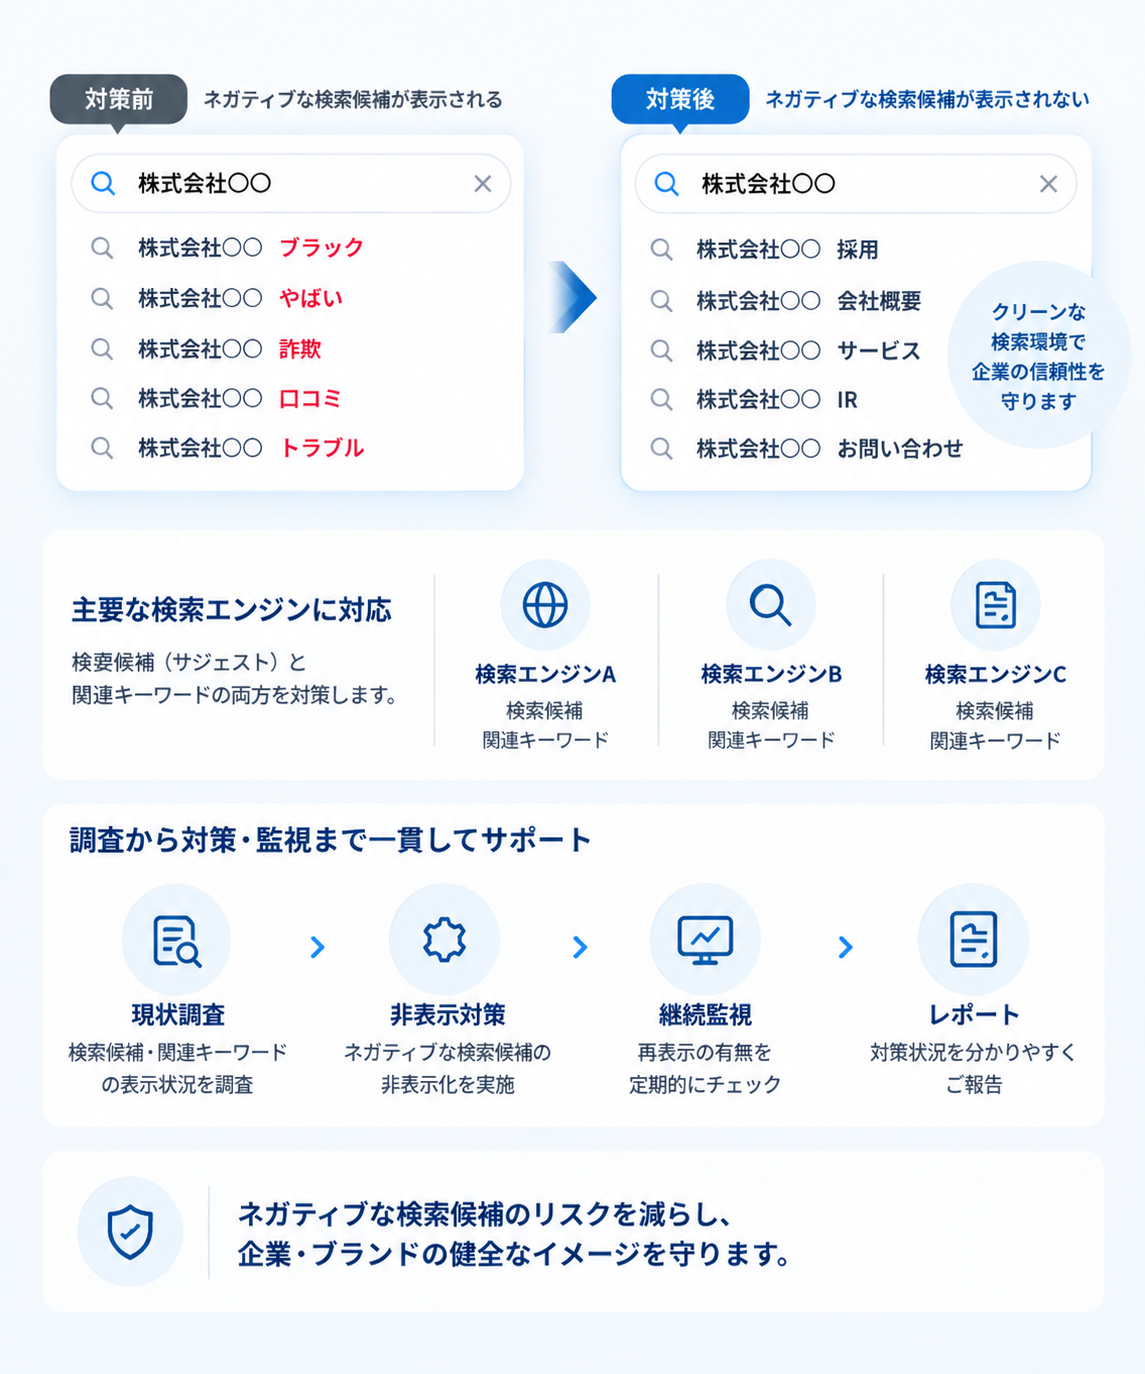
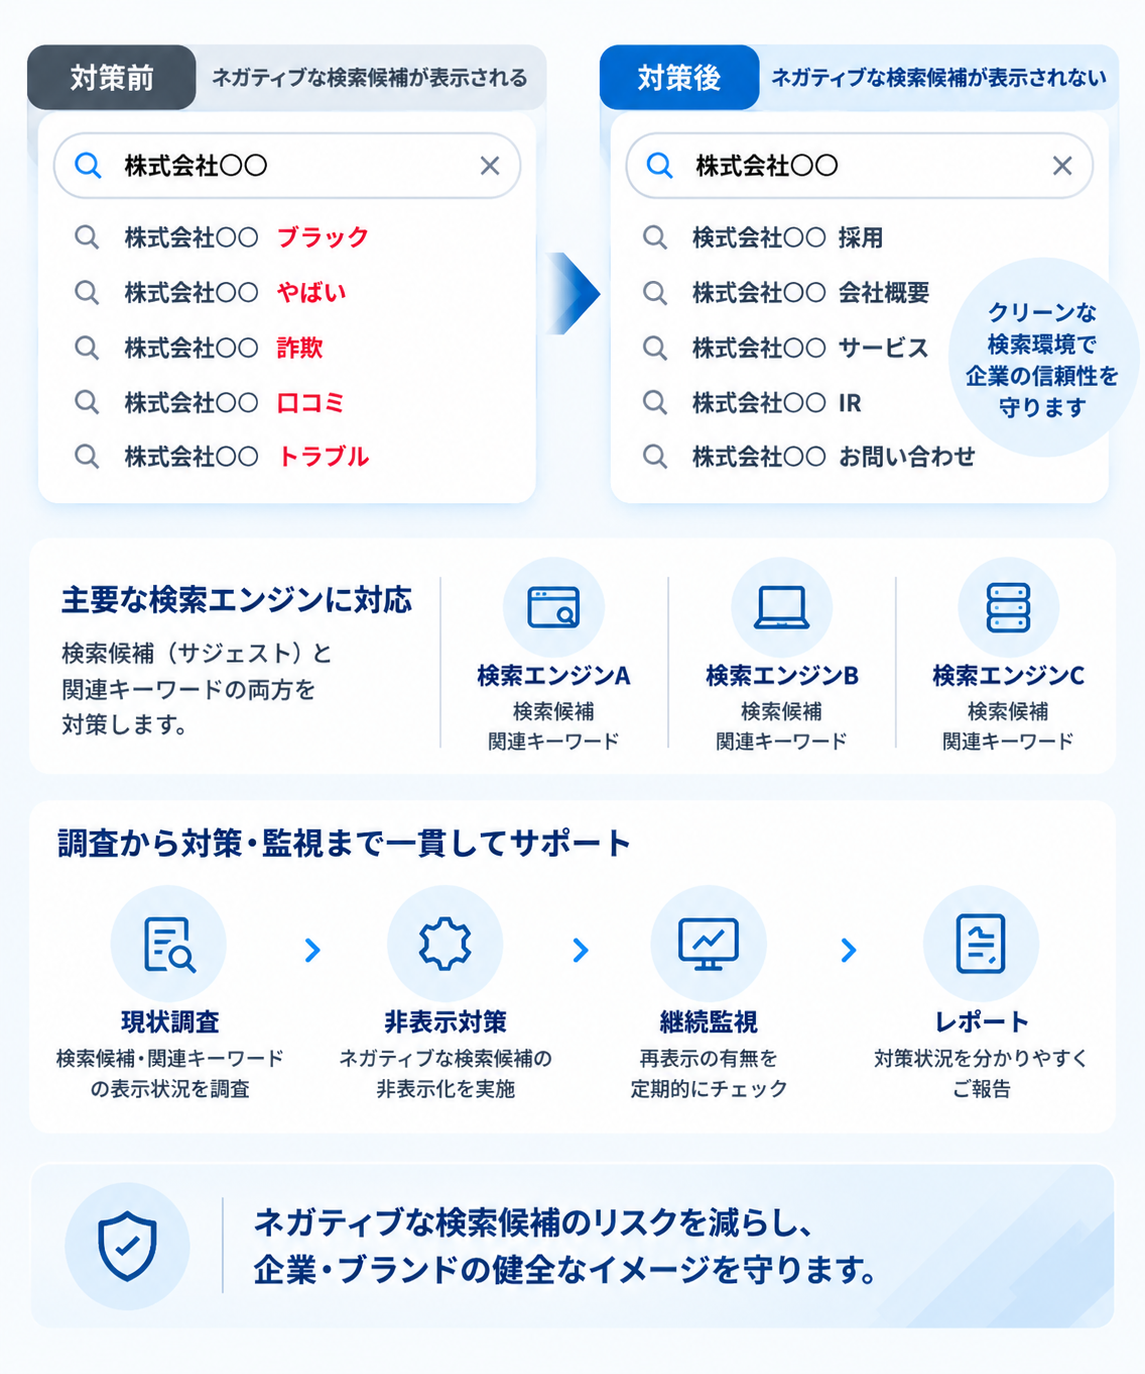
サービス1画像を修正版に差し替え・ボケ防止設定追加

diff --git a/index.html b/index.html
@@ -907,7 +907,7 @@ ul{list-style:none}
     <div class="text-center"><h2 class="sec-title ao">トライポットの<span class="em">サジェスト対策サービス</span></h2><p class="sec-lead ao">サジェスト対策を専門とするからこそ、非表示化から継続監視まで一貫して対応します。</p></div>
     <div class="sol-blocks">
       <div class="sol-block ao">
-        <div class="sol-image"><img src="solution-01.png" alt="Google・Yahoo!・Bingのサジェスト非表示対策サービス" loading="lazy" style="width:100%;border-radius:var(--radius-lg);box-shadow:var(--shadow-lg);display:block"></div>
+        <div class="sol-image"><img src="solution-01.png" alt="Google・Yahoo!・Bingのサジェスト非表示対策サービス" loading="lazy" width="1145" height="1374" style="width:100%;height:auto;border-radius:var(--radius-lg);box-shadow:var(--shadow-lg);display:block;image-rendering:-webkit-optimize-contrast;image-rendering:crisp-edges"></div>
         <div class="sol-text"><p class="sol-num">SERVICE 01</p><h3>サジェスト・関連キーワード<br>非表示対策</h3><p>GoogleやYahoo!で自社名を入力した際に表示される「ブラック」「詐欺」「やばい」などのネガティブな検索候補を非表示化します。検索候補だけでなく、検索結果ページ下部に表示される関連キーワードも対策対象です。</p><p>ネガティブワードが表示され続ける限り、検索するすべてのユーザーの目に触れ、ネガティブな情報サイトへの流入を増やしてしまいます。非表示化することで、ブランドイメージの毀損を防ぎ、本来の企業評価での判断を促します。</p><div class="sol-targets"><span class="sol-target">Google サジェスト</span><span class="sol-target">Yahoo! サジェスト</span><span class="sol-target">Bing サジェスト</span><span class="sol-target">Google 関連キーワード</span><span class="sol-target">Yahoo! 関連検索ワード</span><span class="sol-target">Bing 関連語</span></div><ul class="sol-features"><li>Google・Yahoo!・Bing全検索エンジンに対応</li><li>サジェストと関連キーワードの両方を対策</li><li>対策状況を定期レポートで見える化</li><li>適切な手法で継続的に対策</li></ul>
 <div style="margin-top:24px;padding:20px 24px;background:var(--off-white);border-radius:var(--radius)">
 <p style="font-size:.9rem;font-weight:700;color:var(--heading);margin-bottom:14px">成果が現れるまでの目安</p>
